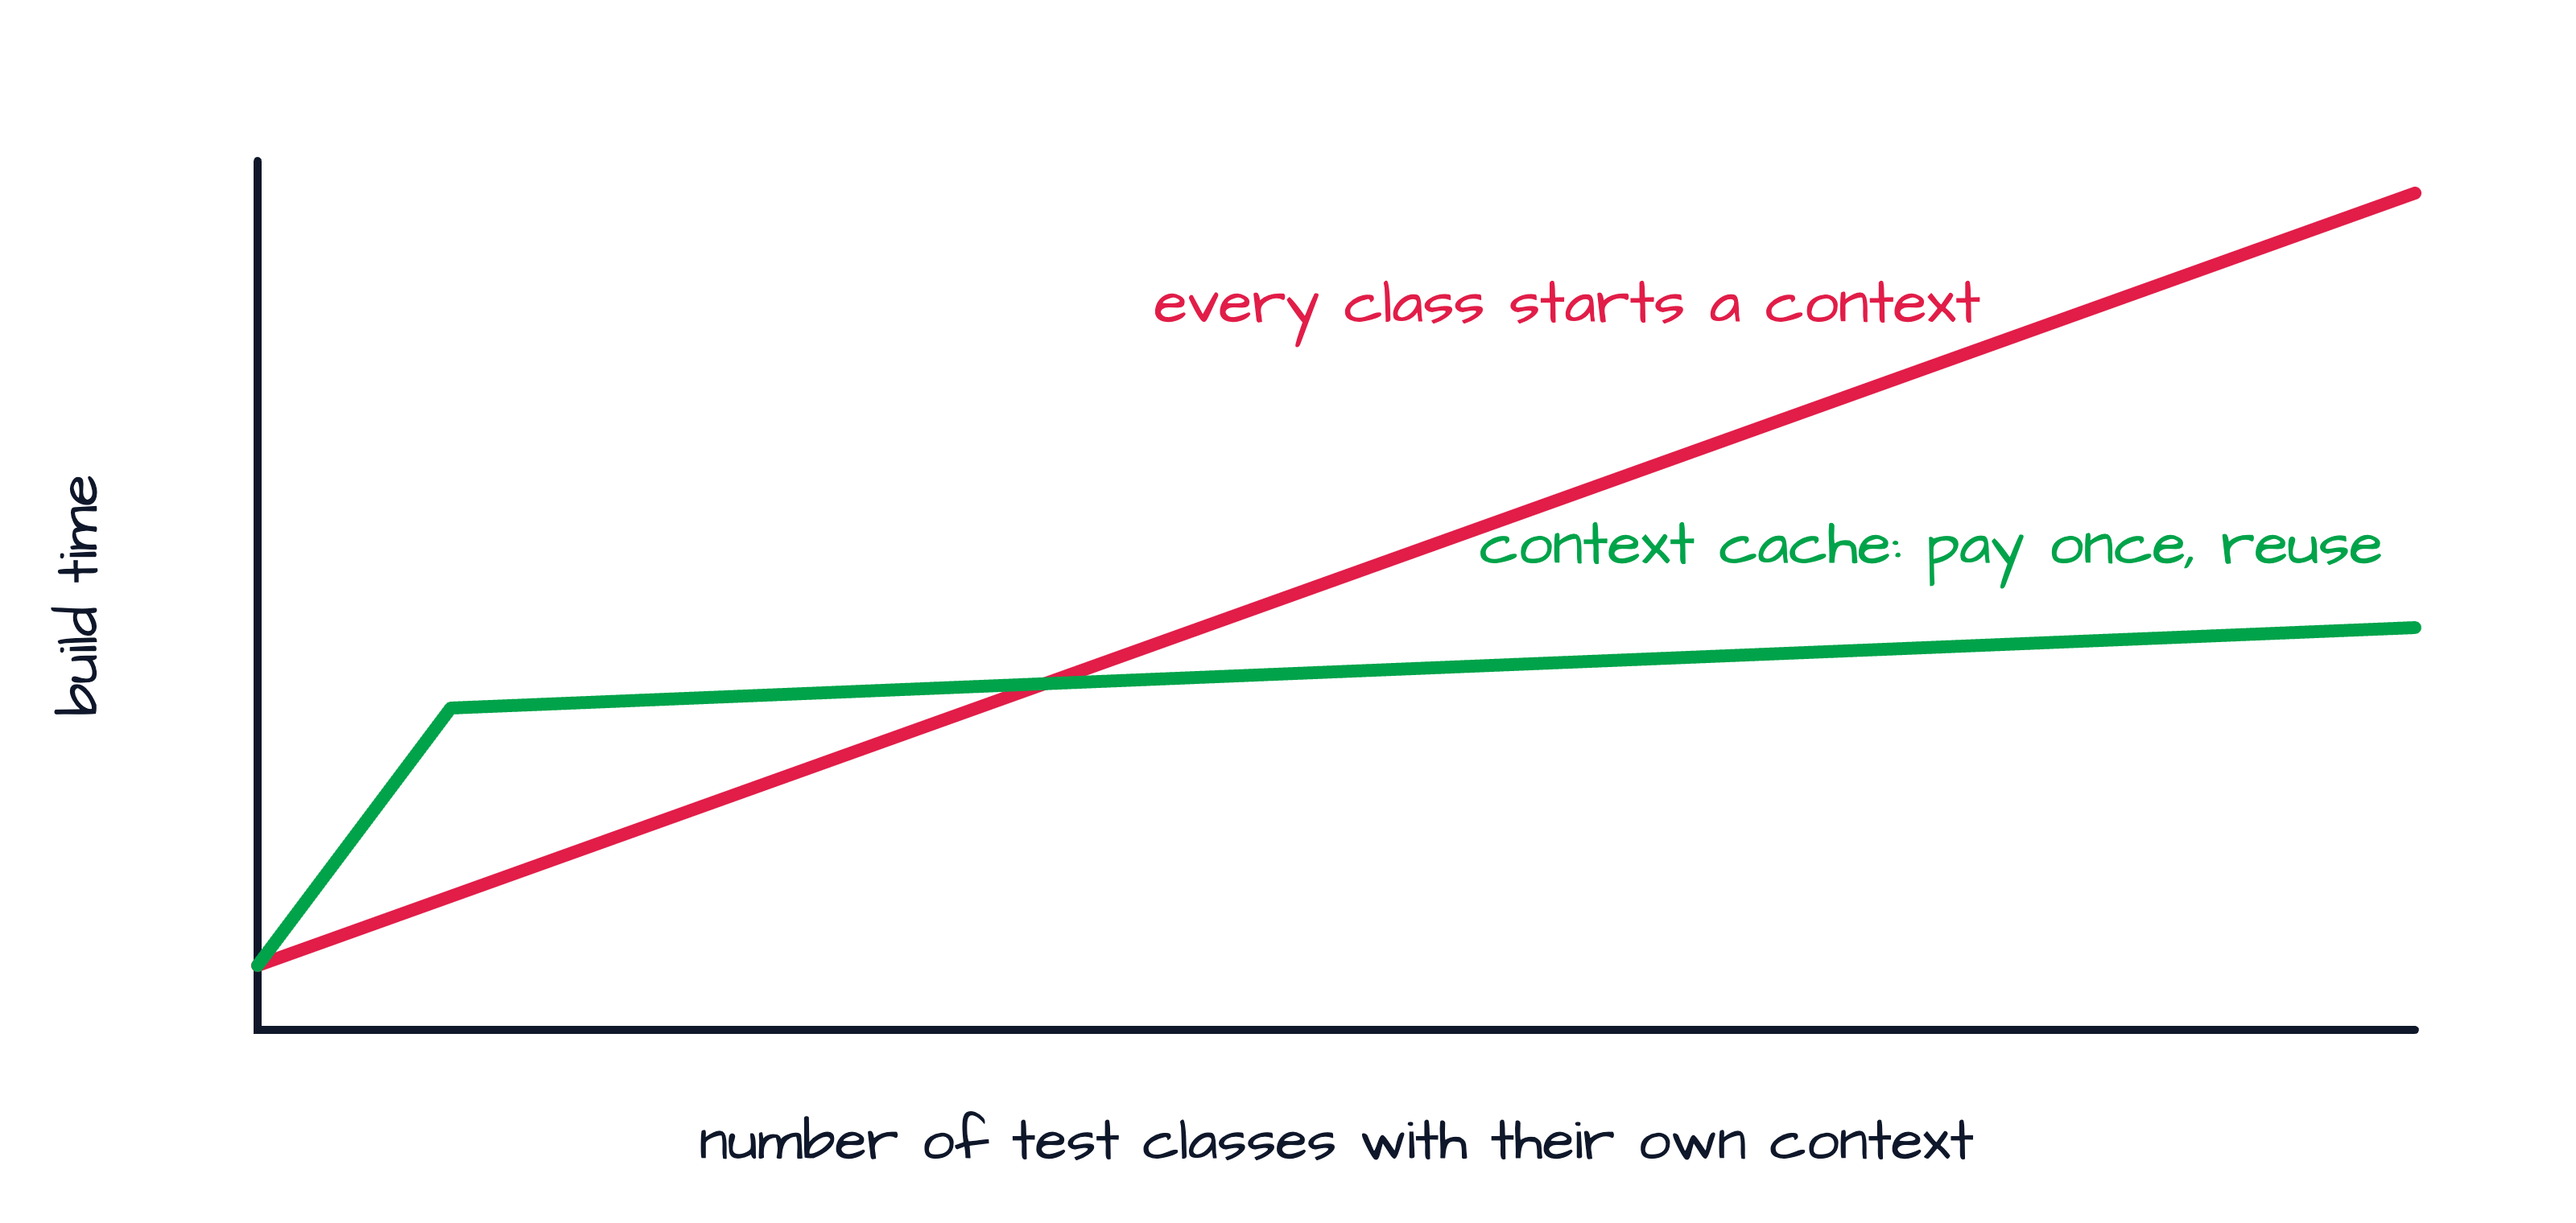
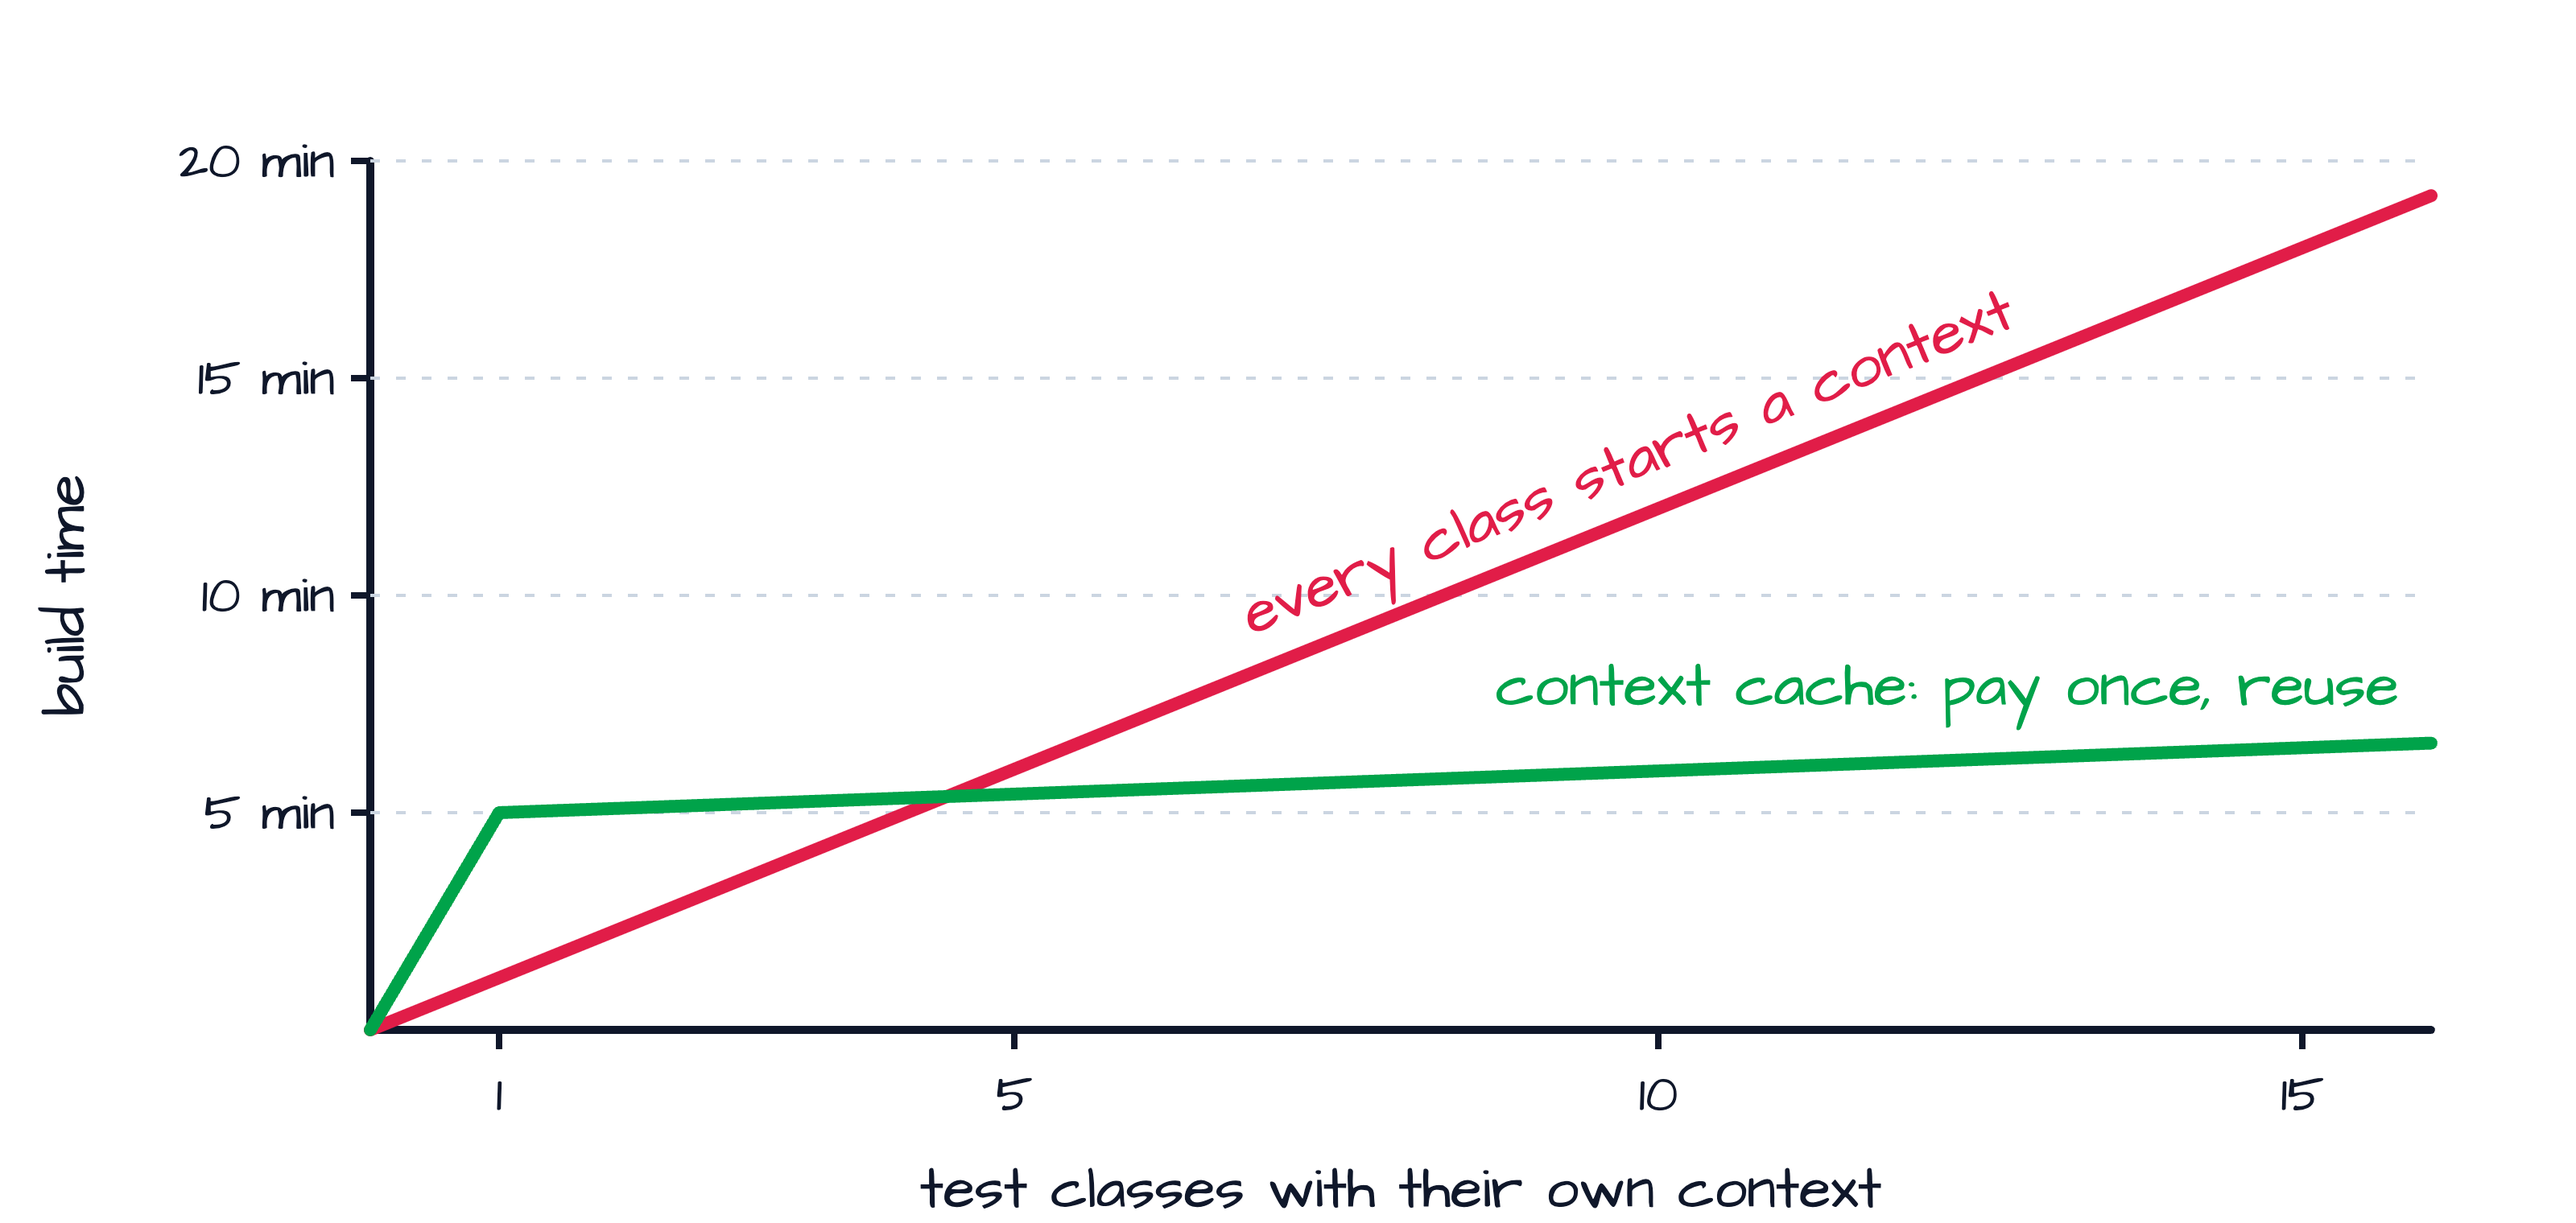
update for JavaCro

diff --git a/the-need-for-speed/slides/visuals/scenes.html b/the-need-for-speed/slides/visuals/scenes.html
@@ -65,13 +65,35 @@
 </svg>
 </div>
 
+<!-- Treasure chest with the gem, used on the "something else" box -->
+<div id="chest" class="scene" style="height:300px;width:340px">
+<svg viewBox="0 0 340 300" width="340" height="300" xmlns="http://www.w3.org/2000/svg">
+  <defs>
+    <linearGradient id="gem2" x1="0" y1="0" x2="1" y2="1"><stop offset="0" stop-color="#7dd3fc"/><stop offset="1" stop-color="#0284c7"/></linearGradient>
+  </defs>
+  <g transform="translate(20 40) scale(1.4)">
+    <rect x="0" y="70" width="190" height="100" rx="10" fill="#8b5a1b" stroke="#4a2f0b" stroke-width="6"/>
+    <path d="M0 80 Q95 -10 190 80 Z" fill="#a8701f" stroke="#4a2f0b" stroke-width="6"/>
+    <rect x="80" y="82" width="30" height="40" rx="6" fill="#e0a100" stroke="#4a2f0b" stroke-width="4"/>
+    <polygon points="95,10 130,42 95,80 60,42" fill="url(#gem2)" stroke="#075985" stroke-width="4"/>
+  </g>
+</svg>
+</div>
+
+<!-- Germany map with the headline "Germany" instead of "Where I am from" -->
+<div id="germany" class="scene" style="width:840px;height:1440px;background:#fff">
+  <img src="../../../shared/assets/germany-herzogenaurach-munich.png" width="840" height="1440" style="position:absolute;left:0;top:0" alt="">
+  <div style="position:absolute;left:0;top:20px;width:840px;height:150px;background:#fff"></div>
+  <div class="hand" style="position:absolute;left:0;top:30px;width:840px;text-align:center;font-size:92px;line-height:1.2;color:#0f172a">Germany</div>
+</div>
+
 <script>
 const params = new URLSearchParams(location.search);
 const scene = params.get('scene') || 'treasure';
 const cached = scene === 'linear-cached';
-document.getElementById(scene === 'treasure' ? 'treasure' : 'linear').classList.add('on');
+document.getElementById(['treasure', 'chest', 'germany'].includes(scene) ? scene : 'linear').classList.add('on');
 
-if (scene !== 'treasure') {
+if (scene.startsWith('linear')) {
   const ns = 'http://www.w3.org/2000/svg';
   const g = document.getElementById('chart');
   const add = (tag, attrs, text) => {
@@ -81,19 +103,38 @@ if (scene !== 'treasure') {
     g.appendChild(el);
     return el;
   };
-  const x0 = 160, y0 = 640, w = 1340, h = 540;
+  const x0 = 230, y0 = 640, w = 1280, h = 540;
+  const maxTests = 16, maxMinutes = 20;
+  const px = (tests) => x0 + (tests / maxTests) * w;
+  const py = (minutes) => y0 - (minutes / maxMinutes) * h;
+  const font = { 'font-family': 'Architects Daughter', fill: '#0f172a' };
   // axes
   add('path', { d: `M${x0} ${y0 - h} V${y0} H${x0 + w}`, fill: 'none', stroke: '#0f172a', 'stroke-width': 5, 'stroke-linecap': 'round' });
-  add('text', { x: x0 + w / 2, y: y0 + 80, 'text-anchor': 'middle', 'font-size': 36, 'font-family': 'Architects Daughter', fill: '#0f172a' }, 'number of test classes with their own context');
-  const yl = add('text', { transform: `translate(60 ${y0 - h / 2}) rotate(-90)`, 'text-anchor': 'middle', 'font-size': 36, 'font-family': 'Architects Daughter', fill: '#0f172a' }, 'build time');
-  // linear: every test class pays for a context start
-  const linearEnd = [x0 + w, y0 - h + 20];
-  add('line', { x1: x0, y1: y0 - 40, x2: linearEnd[0], y2: linearEnd[1], stroke: '#e11d48', 'stroke-width': 8, 'stroke-linecap': 'round' });
-  add('text', { x: 1230, y: 200, 'text-anchor': 'end', 'font-size': 38, 'font-family': 'Architects Daughter', fill: '#e11d48' }, 'every class starts a context');
+  // ticks: 5, 10, 15, 20 min and 1, 5, 10, 15 tests
+  for (const minutes of [5, 10, 15, 20]) {
+    add('line', { x1: x0 - 12, y1: py(minutes), x2: x0, y2: py(minutes), stroke: '#0f172a', 'stroke-width': 4 });
+    add('line', { x1: x0, y1: py(minutes), x2: x0 + w, y2: py(minutes), stroke: '#cbd5e1', 'stroke-width': 2, 'stroke-dasharray': '6 10' });
+    add('text', { x: x0 - 22, y: py(minutes) + 10, 'text-anchor': 'end', 'font-size': 32, ...font }, `${minutes} min`);
+  }
+  for (const tests of [1, 5, 10, 15]) {
+    add('line', { x1: px(tests), y1: y0, x2: px(tests), y2: y0 + 12, stroke: '#0f172a', 'stroke-width': 4 });
+    add('text', { x: px(tests), y: y0 + 50, 'text-anchor': 'middle', 'font-size': 32, ...font }, `${tests}`);
+  }
+  add('text', { x: x0 + w / 2, y: y0 + 110, 'text-anchor': 'middle', 'font-size': 36, ...font }, 'test classes with their own context');
+  add('text', { transform: `translate(52 ${y0 - h / 2}) rotate(-90)`, 'text-anchor': 'middle', 'font-size': 36, ...font }, 'build time');
+  // linear: every test class pays about 1.2 min for a context start
+  const start = [px(0), py(0)];
+  const end = [px(16), py(19.2)];
+  add('line', { x1: start[0], y1: start[1], x2: end[0], y2: end[1], stroke: '#e11d48', 'stroke-width': 8, 'stroke-linecap': 'round' });
+  // label parallel to the line, sitting just above it
+  const angle = Math.atan2(end[1] - start[1], end[0] - start[0]) * 180 / Math.PI;
+  const labelAt = [start[0] + (end[0] - start[0]) * 0.62, start[1] + (end[1] - start[1]) * 0.62];
+  add('text', { transform: `translate(${labelAt[0]} ${labelAt[1]}) rotate(${angle}) translate(0 -22)`, 'text-anchor': 'middle', 'font-size': 38, 'font-family': 'Architects Daughter', fill: '#e11d48' }, 'every class starts a context');
   if (cached) {
-    // with caching: one big step, then almost flat
-    add('path', { d: `M${x0} ${y0 - 40} L${x0 + 120} ${y0 - 200} L${x0 + w} ${y0 - 250}`, fill: 'none', stroke: '#00a34a', 'stroke-width': 8, 'stroke-linecap': 'round', 'stroke-linejoin': 'round' });
-    add('text', { x: x0 + w - 20, y: y0 - 290, 'text-anchor': 'end', 'font-size': 38, 'font-family': 'Architects Daughter', fill: '#00a34a' }, 'context cache: pay once, reuse');
+    // with caching: pay once (about 5 min), then almost flat
+    const cacheEnd = [px(16), py(6.6)];
+    add('path', { d: `M${px(0)} ${py(0)} L${px(1)} ${py(5)} L${cacheEnd[0]} ${cacheEnd[1]}`, fill: 'none', stroke: '#00a34a', 'stroke-width': 8, 'stroke-linecap': 'round', 'stroke-linejoin': 'round' });
+    add('text', { x: cacheEnd[0] - 20, y: cacheEnd[1] - 24, 'text-anchor': 'end', 'font-size': 38, 'font-family': 'Architects Daughter', fill: '#00a34a' }, 'context cache: pay once, reuse');
   }
 }
 window.__rendered = true;

diff --git a/the-need-for-speed/slides/content.md b/the-need-for-speed/slides/content.md
@@ -5,7 +5,7 @@ title: 'The Need for Speed: Cut Your Spring Boot Build Times by 70%'
 class: light
 paginate: true
 transition: pt-fade
-header: 'The Need for Speed · JavaCro 2026'
+header: 'The Need for Speed: Cut Your Spring Boot Build Times by 70% - JavaCro 2026'
 footer: '![](../../shared/assets/logo.webp) Philip Riecks · [@rieckpil](https://x.com/rieckpil) · [PragmaTech GmbH](https://pragmatech.digital/)'
 ---
 
@@ -26,7 +26,7 @@ footer: '![](../../shared/assets/logo.webp) Philip Riecks · [@rieckpil](https:/
 
 # The Need for **Speed**: Cut Your Spring Boot Build Times by 70%
 
-## Spring TestContext caching: the hidden gem of Spring Test
+## The hidden gem of Spring Test to unlock blazing fast feedback
 
 JavaCro 2026 · October 13, 2026
 
@@ -51,7 +51,7 @@ Notes:
 
 ---
 
-![bg right:33% fit](../../shared/assets/location.png)
+![bg right:33% fit](../../shared/assets/the-need-for-speed/germany-map.png)
 
 ### About Philip
 
@@ -61,99 +61,112 @@ Notes:
 
 ---
 
-<!-- header: 'The Need for Speed · Intro' -->
-<!-- _class: light statement -->
+<!-- _paginate: false -->
 
-# Somewhere in your project, a **treasure** is hidden.
+![bg right:33%](../../shared/assets/why-test-software.jpg)
 
-<!--
-Notes:
-- Hook. Do not name it yet.
--->
-
----
-
-<!--
-Notes:
-- Walk the map: you start with @SpringBootTest, you cross the swamp of mocks and the cliffs of @DirtiesContext.
-- The treasure: Spring's TestContext cache. Most teams walk right past it.
--->
-
-![center h:520](../../shared/assets/the-need-for-speed/treasure-map.png)
-
----
-
-## Quick Check: Who Is in the Room?
-
-Answer on Mentimeter:
-
-- Do you write **Spring Boot** applications?
-- How long does your **build** take?
-- Have you heard of **context caching** in Spring Test?
-
-<!--
-Notes:
-- Read the results out loud. Comment on the build times.
-- Most hands go up for Spring Boot, few for context caching. That is the gap.
--->
+# Why Test Software?
 
 ---
 
 <!-- _class: light statement -->
 
-# In 2026, most of our code is **not written by us**.
-
----
+# Most of the code is generated, but you **can't prompt** confidence.
 
 <!--
 Notes:
-- The joke lands, then the point: we ship code we did not type.
+- The point of the whole talk in one sentence.
 -->
-
-![center h:500](../../shared/assets/ai-frog-meme.jpg)
-
----
-
-<!-- _class: light statement -->
-
-# So **automated tests** matter more than ever.
-
----
-
-## What Modern Tests Need to Be
-
-- **Fast** - feedback in seconds or minutes, not hours
-- **Comprehensive** - they cover what really matters, including the real framework wiring
-- **Trustworthy** - green means you can deploy
-
-Today: **fast**.
 
 ---
 
 <!-- _class: light reveal -->
 
-## How Do You Get Fast Tests?
+![bg right:33%](../../shared/assets/lightning-shield.png)
 
-* **Option 1:** write no tests 🙈
-* **Option 2:** parallelize them 🧵
-* **Option 3:** use a hidden gem 💎 - **Spring's context caching**
+## When Code Generation Scales ...
+
+* ... **verification** becomes the bottleneck.
+* So we need a **safety net**: a test suite we can trust.
 
 <!--
 Notes:
-- Click by click. Option 1 gets the laugh, option 2 is real but needs isolated tests, option 3 is today.
+- Generation is cheap and fast now. Reading and verifying every line is not.
+- The safety net is an automated test suite.
 -->
 
 ---
 
-<!-- header: 'The Need for Speed · 1 Understand' -->
+<style scoped>
+.flow { gap: 40px; align-items: stretch; margin-top: 1.6em; }
+.sketch {
+  flex: 1; padding: 1.1em 1.2em; font-size: 1.15em; line-height: 1.3;
+  background: rgba(2, 132, 199, 0.08);
+}
+.sketch .title { display: block; font-size: 1.9em; margin-bottom: 0.25em; }
+.sketch small { font-size: 0.75em; }
+</style>
+
+## What We Expect From the Safety Net
+
+<div class="flow">
+  <div class="sketch accent"><span class="title">Fast</span>Feedback in <b>minutes</b>, not hours<small>so we run it on every change</small></div>
+  <div class="sketch accent alt"><span class="title">Comprehensive</span>Enough <b>correct tests</b><small>for confidence in every commit</small></div>
+</div>
+
+---
+
+<!-- _class: light statement -->
+
+# Today we focus on **fast** tests.
+
+---
+
+<!-- _class: light reveal -->
+
+<style scoped>
+ul { display: grid; grid-template-columns: repeat(3, 1fr); gap: 28px; margin-top: 1.2em; }
+ul > li {
+  margin: 0; padding: 0.6em 0.5em; min-height: 9.5em;
+  display: flex; flex-direction: column; align-items: center; justify-content: center; gap: 0.15em;
+  text-align: center; font-size: 1.3em; line-height: 1.15;
+  font-family: 'Architects Daughter', cursive;
+  border: 3px solid var(--pt-heading);
+  border-radius: 255px 15px 225px 15px / 15px 225px 15px 255px;
+  box-shadow: 3px 4px 0 rgba(15, 23, 42, 0.14);
+}
+ul > li:nth-child(3) { border-color: var(--pt-link); color: var(--pt-link); }
+ul > li .icon { font-size: 2.6em; line-height: 1.1; }
+ul > li img:not(.emoji) { height: 120px; }
+ul > li small { display: block; font-size: 0.6em; line-height: 1.2; color: var(--pt-muted); }
+</style>
+
+## How Do You Get Fast Tests?
+
+* <span class="icon">🙈</span>No tests at all<small>fastest build, zero confidence</small>
+* <span class="icon">🧵</span>Parallelize tests<small>use the cores you pay for</small>
+* ![](../../shared/assets/the-need-for-speed/treasure-chest.png)Something else ...<small>a treasure that helps us</small>
+
+<!--
+Notes:
+- Click by click. Box 1 gets the laugh, box 2 is real but needs isolated tests.
+- Box 3: the treasure chest. Opens up in the next section: context caching.
+-->
+
+---
+
 <!-- _class: light section -->
 <!-- _paginate: false -->
 
 ![bg right:40%](../../shared/assets/speed.jpg)
 
-## 01 - Understand
+<style scoped>
+h1 { font-size: 54px; }
+</style>
 
-# How context caching works
+## The Spring Test hidden gem
+
+# Reusing an ApplicationContext for tests
 
 ---
 
@@ -161,12 +174,24 @@ Notes:
 
 Whether sliced or full, a Spring test needs an `ApplicationContext`:
 
-```text
-Starting BookApiSpringBootTest using Java 25
-Bootstrapping Spring Data JPA repositories in DEFAULT mode
-Initialized JPA EntityManagerFactory for persistence unit 'default'
-Tomcat started on port 38213 (http)
-Started BookApiSpringBootTest in 2.5 seconds
+```text {17}
+  .   ____          _            __ _ _
+ /\\ / ___'_ __ _ _(_)_ __  __ _ \ \ \ \
+( ( )\___ | '_ | '_| | '_ \/ _` | \ \ \ \
+ \\/  ___)| |_)| | | | | || (_| |  ) ) ) )
+  '  |____| .__|_| |_|_| |_\__, | / / / /
+ =========|_|==============|___/=/_/_/_/
+
+ :: Spring Boot ::                (v4.1.1)
+
+10:19:16.157 INFO  BookApiSpringBootTest : Starting BookApiSpringBootTest using Java 25.0.2
+10:19:16.548 INFO  RepositoryConfigurationDelegate : Bootstrapping Spring Data JPA repositories
+10:19:16.863 INFO  TomcatWebServer : Tomcat initialized with port 0 (http)
+10:19:17.064 INFO  org.hibernate.orm.core : HHH000001: Hibernate ORM core version 7.4.5.Final
+...
+10:19:17.824 INFO  LocalContainerEntityManagerFactoryBean : Initialized JPA EntityManagerFactory
+...
+10:19:18.320 INFO  BookApiSpringBootTest : Started BookApiSpringBootTest in 2.289 seconds
 ```
 
 The Spring Boot banner means: a lot just happened.
@@ -185,11 +210,9 @@ The Spring Boot banner means: a lot just happened.
 
 ---
 
-## Linear Growth: The Bad News
+## To Avoid: Linear Build Time Growth
 
-![center h:480](../../shared/assets/the-need-for-speed/linear-build-time.png)
-
-More test classes with their own context means a build time that grows linearly.
+![center h:500](../../shared/assets/the-need-for-speed/linear-build-time.png)
 
 ---
 
@@ -286,7 +309,6 @@ You pay for a context once per unique configuration, not once per test class.
 
 ---
 
-<!-- header: 'The Need for Speed · Demo' -->
 <!-- _class: light section -->
 <!-- _paginate: false -->
 
@@ -314,7 +336,6 @@ _Spring Boot 4.1, Java 25, 5 test classes, 9 tests._
 
 ---
 
-<!-- header: 'The Need for Speed · Optimize in 3 steps' -->
 <!-- _class: light agenda -->
 
 ## Three Steps to Faster Builds
@@ -521,7 +542,6 @@ A new `@DirtiesContext` or a stray `@MockitoBean` now fails the build.
 
 ---
 
-<!-- header: 'The Need for Speed · Summary' -->
 <!-- _class: light agenda -->
 
 ## Summary
@@ -543,7 +563,17 @@ Notes:
 # Fast feedback is a **feature**.
 * The treasure was in your project all along.
 * **Go and find it.**
-* Good luck - and reach out if you need a hand.
+
+---
+
+
+## Need Help Optimizing Your Build?
+
+![center h:300](../../shared/assets/pragmatech-main-offering.png)
+
+- Spring Boot test suite too slow? Let's find your context cache killers together
+- Test audits, team workshops and hands-on pairing at [pragmatech.digital](https://pragmatech.digital/)
+- **Reach out:** [philip@pragmatech.digital](mailto:philip@pragmatech.digital) or [LinkedIn](https://www.linkedin.com/in/rieckpil)
 
 ---
 
@@ -554,13 +584,8 @@ Notes:
 
 ![bg right:33%](../../shared/assets/end.jpg)
 
-# Thank you!
-
-Questions?
+# Joyful (and fast) testing!
 
 The **Spring Boot Testing Newsletter**: best practices, recipes and quick wins in your inbox - **rieckpil.de/newsletter**
 
-![h:170](../../shared/assets/newsletter-signup-qr.png)
-
-- [LinkedIn: linkedin.com/in/rieckpil](https://www.linkedin.com/in/rieckpil)
-- [Mail: philip@pragmatech.digital](mailto:philip@pragmatech.digital)
+![center h:260](../../shared/assets/newsletter-signup-qr.png)
